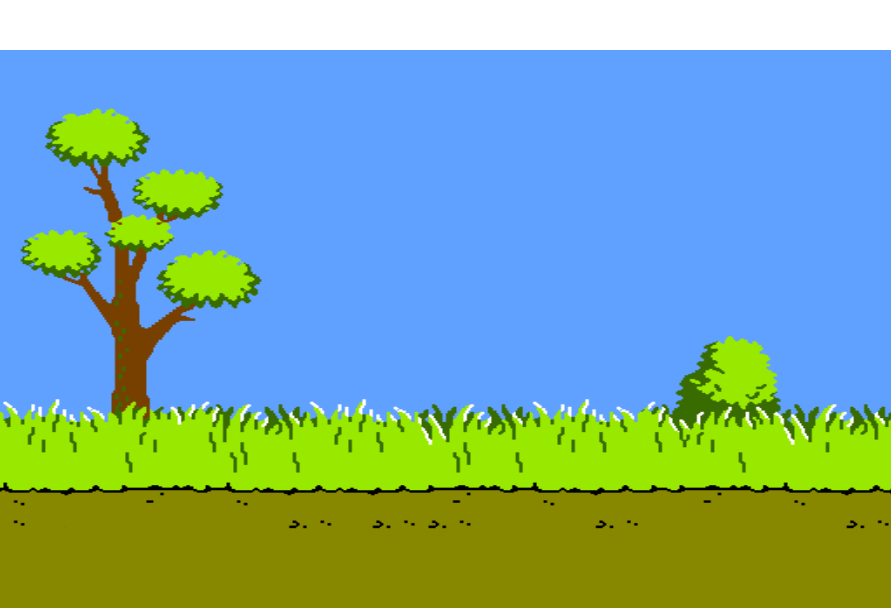
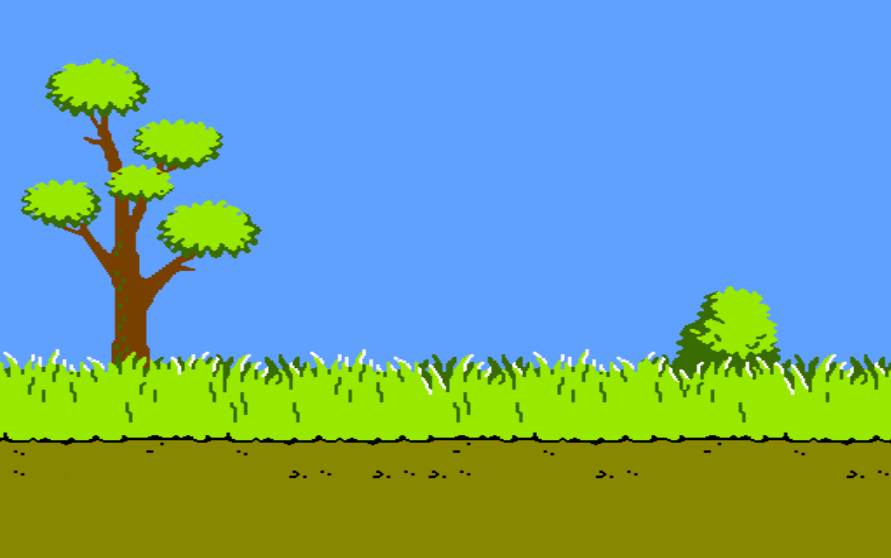
background scaling

diff --git a/utils/classes.py b/utils/classes.py
@@ -18,11 +18,13 @@ class Screen():
         if name == 'title':
             self.screen.blit(self.titlescreen, (0, 0))
         elif name == 'pause':
-            self.screen.blit(self.pausescreen, (0, 0))
+            self.screen.fill((255, 255, 255))
+            self.screen.blit(self.pausescreen, (0, 50))
         elif name == 'go':
             self.screen.blit(self.gameoverscreen, (0, 0))
         elif name == 'bg':
-            self.screen.blit(self.background, (0, 0))
+            self.screen.fill((255, 255, 255))
+            self.screen.blit(self.background, (0, 50))
         elif name == 'win':
             self.screen.blit(self.winscreen, (0, 0))
 
@@ -53,11 +55,16 @@ class Screen():
     def loadSkin(self, skins, skinNum):
         dir = 'skins/' + skins[skinNum]
         print(dir)
-        self.background = pygame.image.load(dir + '/background.png')
-        self.pausescreen = pygame.image.load(dir + '/pausescreen.png')
-        self.titlescreen = pygame.image.load(dir + '/titlescreen.png')
-        self.gameoverscreen = pygame.image.load(dir + '/losing.png')
-        self.winscreen = pygame.image.load(dir + '/completion.png')
+        self.background = pygame.transform.scale(
+            pygame.image.load(dir + '/background.png'), (891, 558))
+        self.pausescreen = pygame.transform.scale(
+            pygame.image.load(dir + '/pausescreen.png'), (891, 558))
+        self.titlescreen = pygame.transform.scale(
+            pygame.image.load(dir + '/titlescreen.png'), (891, 608))
+        self.gameoverscreen = pygame.transform.scale(
+            pygame.image.load(dir + '/losing.png'), (891, 608))
+        self.winscreen = pygame.transform.scale(
+            pygame.image.load(dir + '/completion.png'), (891, 608))
 
     def getFolder(self):
         return 'skins/' + str(self.skinNames[self.skinNum])
